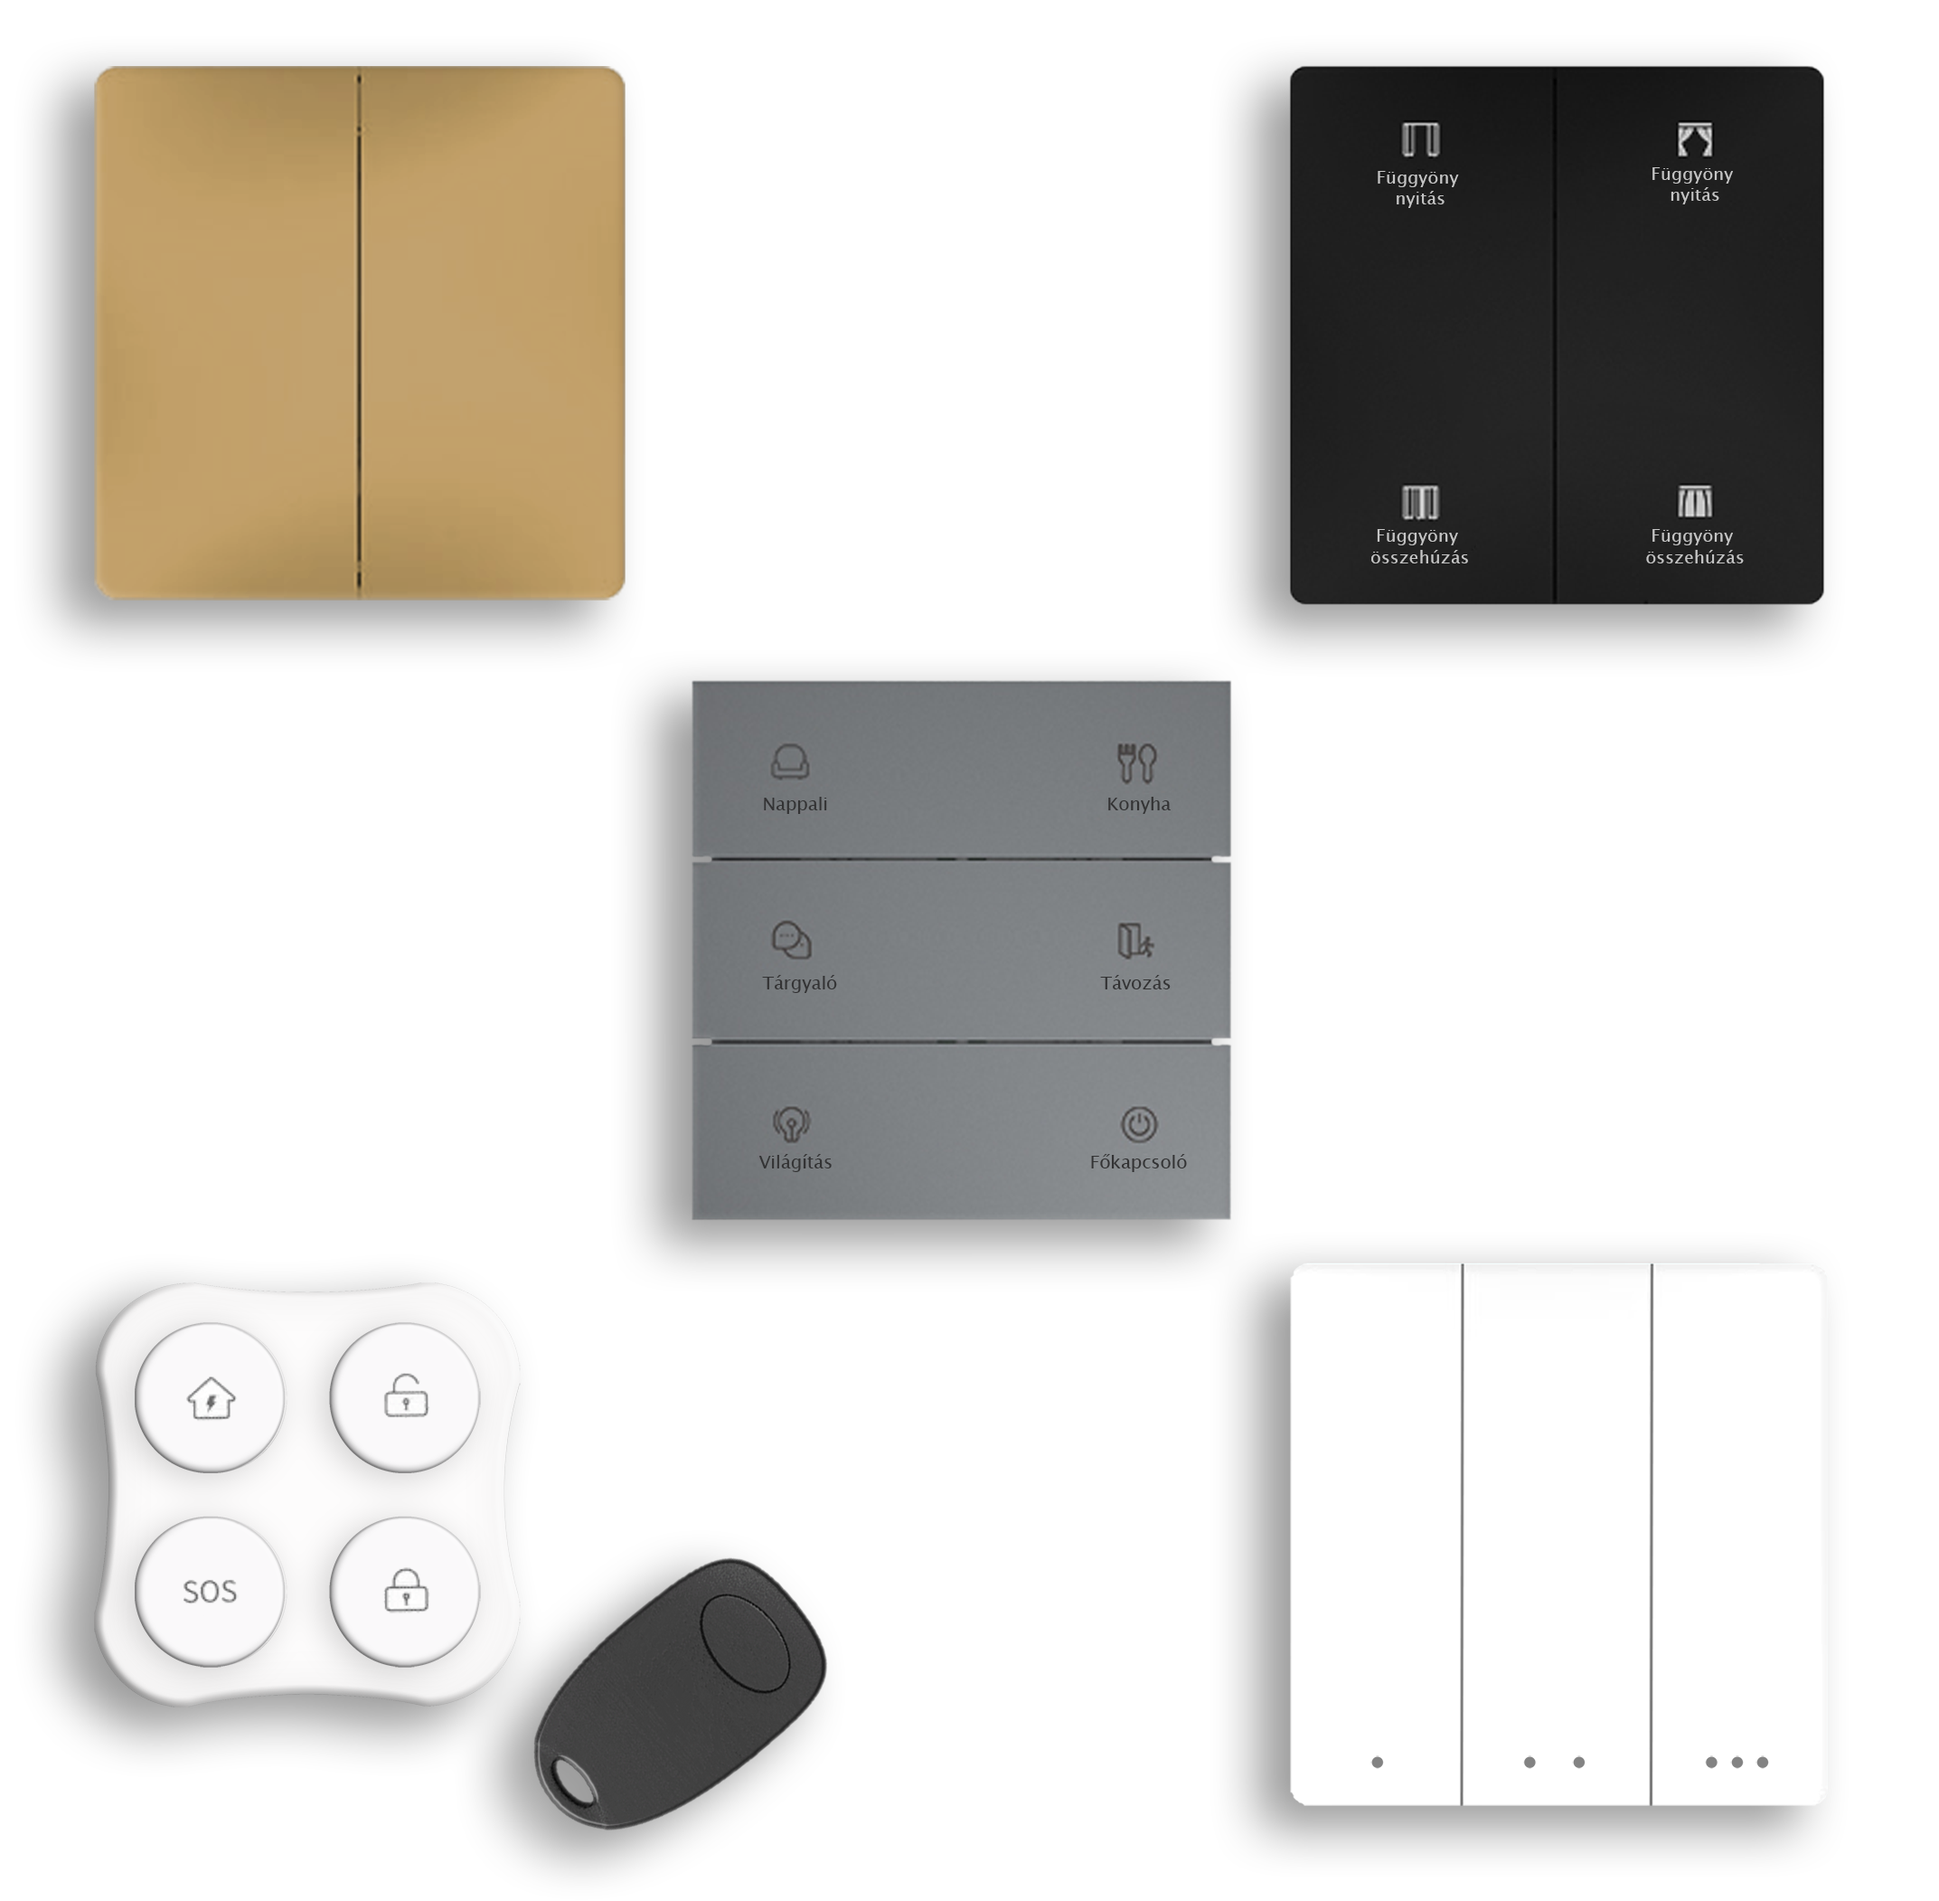
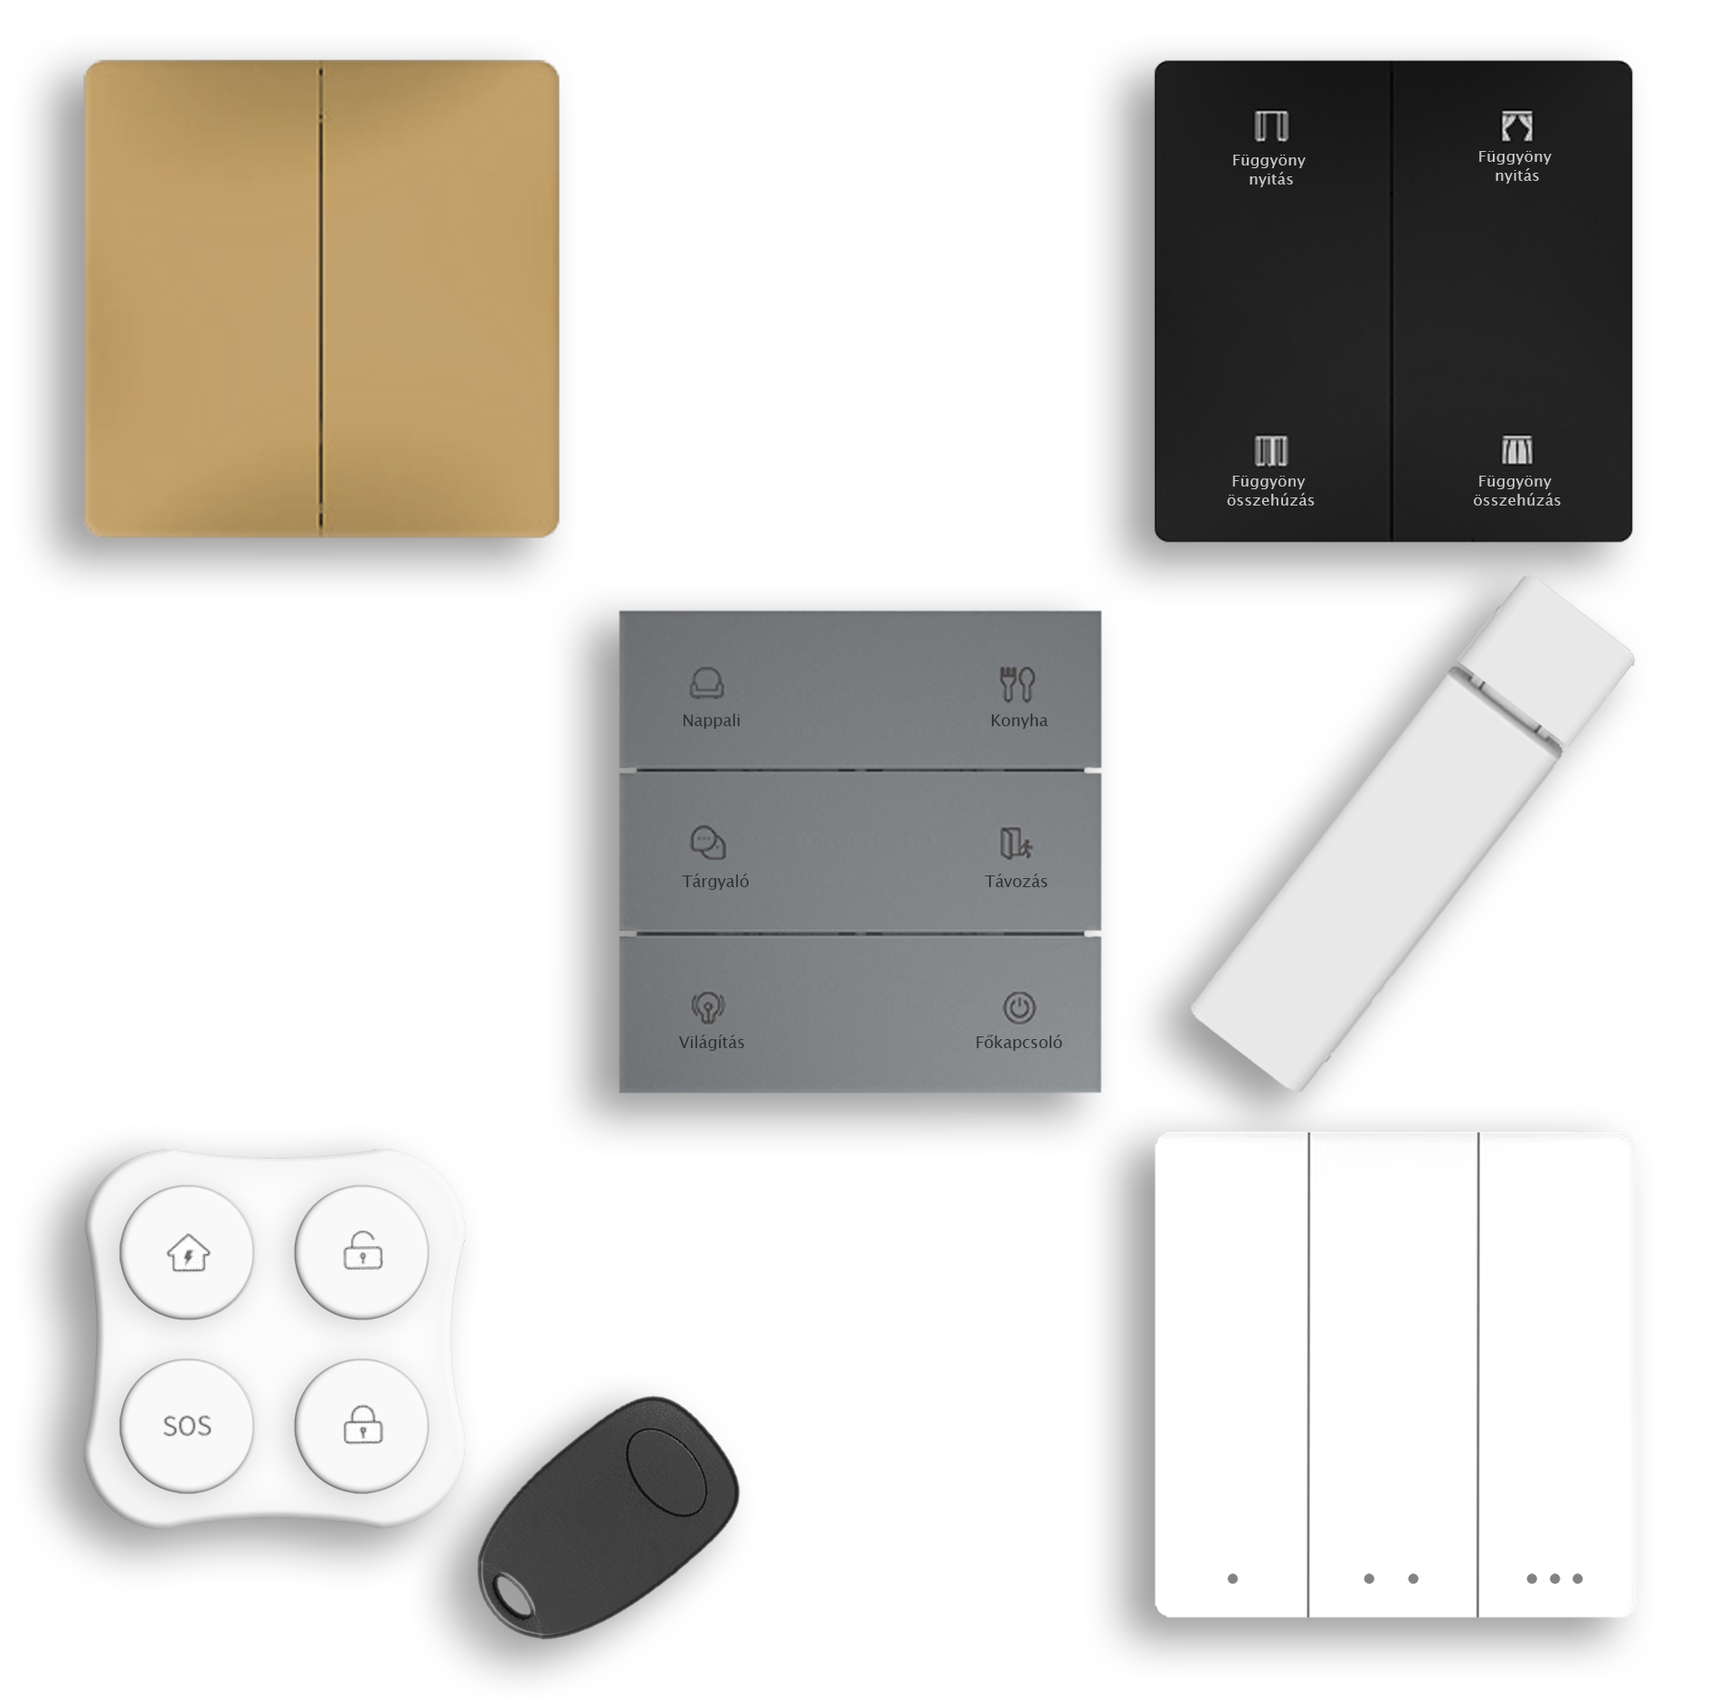
integrated example

diff --git a/index.html b/index.html
@@ -1577,11 +1577,10 @@
                                         </li>
                                         <li data-target="#carousel10" data-slide-to="1" class=""></li>
                                         <li data-target="#carousel10" data-slide-to="2" class=""></li>
-                                        <li data-target="#carousel10" data-slide-to="3" class=""></li>
                                     </ol>
                                     <div class="carousel-inner">
                                         <div class="carousel-item active">
-                                            <img class="d-block w-100" src="./resources/img/pelda6-1.jpg" alt="First slide broken glass detection">
+                                            <img class="d-block w-100" src="./resources/img/pelda9-1.jpg" alt="First slide broken glass detection">
                                             <div class="carousel-caption d-none d-md-block">
                                                 <h4>
                                                     Meglévő kapcsoló
@@ -1589,18 +1588,10 @@
                                             </div>
                                         </div>
                                         <div class="carousel-item">
-                                            <img class="d-block w-100" src="./resources/img/pelda6-2.jpg" alt="Second slide lightswitch alarm">
+                                            <img class="d-block w-100" src="./resources/img/pelda9-2.jpg" alt="Second slide lightswitch alarm">
                                             <div class="carousel-caption d-none d-md-block">
                                                 <h4>
-                                                    Aktuátor
-                                                </h4>
-                                            </div>
-                                        </div>
-                                        <div class="carousel-item">
-                                            <img class="d-block w-100" src="./resources/img/pelda6-2.jpg" alt="Second slide lightswitch alarm">
-                                            <div class="carousel-caption d-none d-md-block">
-                                                <h4>
-                                                    Kinetikus kapcsoló
+                                                    Beépíthető aktuátor
                                                 </h4>
                                             </div>
                                         </div>
